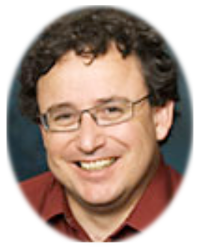
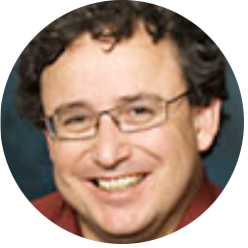
modifying about page

diff --git a/app/assets/stylesheets/custom.css.scss b/app/assets/stylesheets/custom.css.scss
@@ -11,6 +11,20 @@
   height: 150px;
 }
 
+/* typography */
+
+
+a {
+  color: #999999;
+
+  &:hover {
+    color: #aac752;
+    text-decoration: none;  
+  }
+}
+
+/* clear */
+
 .clear {
   clear: both;
 }
@@ -61,11 +75,19 @@ body {
 }
 
 footer {
-  padding-top: 20px;
+  font-size: 11px;
+  padding-top: 50px;
+  padding-bottom: 100px;
   background-color: black;
-  color: white;
+  color: #999999;
 
   h5 {
+    color: white;
+    font-weight: normal;
     margin-top: 0px;
+  }
+
+  address {
+    padding-left: 27px;
   }
 }

diff --git a/app/assets/stylesheets/static_pages.css.scss b/app/assets/stylesheets/static_pages.css.scss
@@ -105,13 +105,20 @@
       text-align: center;
     }
 
+    .company_title {
+      color: #999999;
+    }
+
     .portrait {
       padding-left: 50%;
-      margin-left: -100px;
+      margin-left: -75px;
+      width: auto;
+      height: 175px;
     }
 
     p {
-      padding-left: 25px;
+      padding-left: 100px;
+      padding-right: 75px;
     }
   }
 
